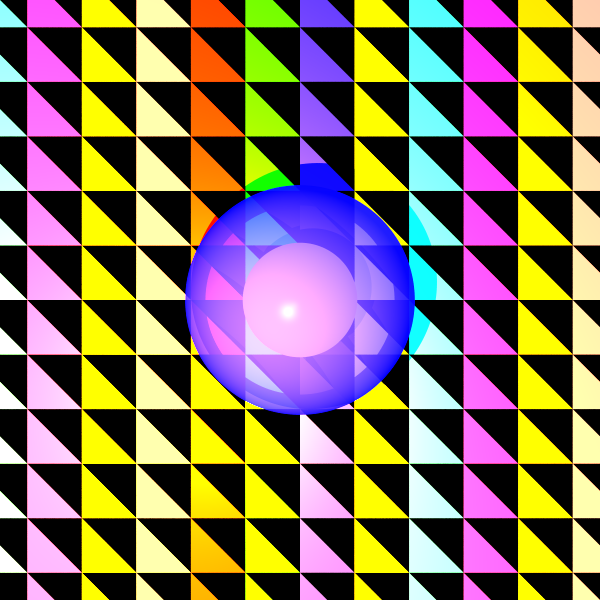
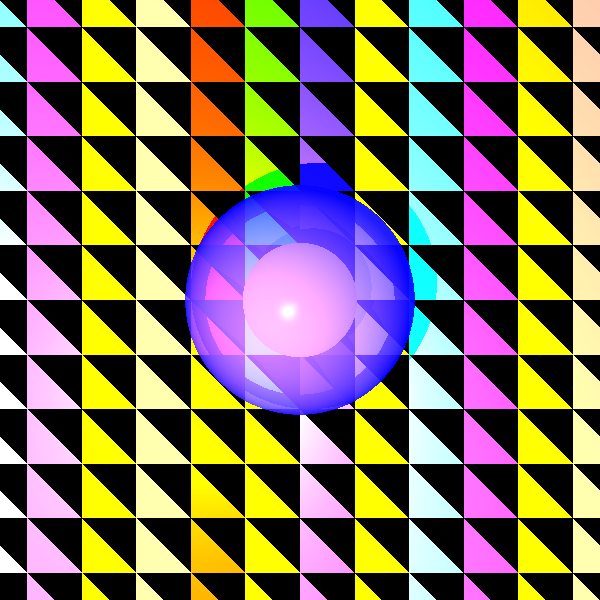
Improving the picture

diff --git a/unittests/renderer/ProjectImage.java b/unittests/renderer/ProjectImage.java
@@ -180,8 +180,8 @@ public class ProjectImage {
         // Create a checkered floor on YX plane (vertical)
         int squareSize = 50;
         Geometries checkerboard = new Geometries();
-        for (int i = -5; i <= 5; i++) {
-            for (int j = -5; j <= 5; j++) {
+        for (int i = -18; i <= 5; i++) {
+            for (int j = -18; j <= 5; j++) {
                 Color color = (i + j) % 2 == 0 ? new Color(20, 20, 20) : new Color(180, 180, 180);
                 checkerboard.add(new Polygon(
                         new Point(i * squareSize, j * squareSize, 0),
@@ -194,13 +194,15 @@ public class ProjectImage {
         }
 
         // Add some additional objects for interesting reflections
-        Geometry reflectiveSphere = new Sphere(30, new Point(0, 100, 30))
+        Geometry reflectiveSphere = new Sphere(30, new Point(100,0 , 30))
                 .setEmission(new Color(100, 20, 20))
                 .setMaterial(new Material().setKd(0.4).setKs(0.6).setShininess(100).setKR(0.3));
 
 
 
         scene.geometries.add(crystalSphere, checkerboard, reflectiveSphere);
+
+        scene.geometries.makeBVH();
 
         scene.setAmbientLight(new AmbientLight(new Color(150, 30, 50), 0.1));
 
@@ -213,12 +215,14 @@ public class ProjectImage {
 
         Camera.Builder camera = Camera.getBuilder()
                 .setRayTracer(new SimpleRayTracer(scene))
-                .setLocation(new Point(10, -1200, 30))
+                .setLocation(new Point(0, -1500, 90))
                 .setDirection(new Vector(0, 1, 0), new Vector(0, 0, 1))
                 .setMultithreading(9)
-                .setSamplesPerPixel(9)
-                .setVUpSize(200, 200).setVpDistance(1500);
-        camera.setImageWriter(new ImageWriter("first NaturalAxisCrystalScene", 800, 800))
+                .setSamplesPerPixel(1)
+                .setVUpSize(200, 150)  // Changed to 200x150 for a 4:3 aspect ratio
+                .setVpDistance(1000);
+
+        camera.setImageWriter(new ImageWriter("1500 NaturalAxisCrystalScene", 1600, 1200))  // Changed to 1600x1200 for a 4:3 aspect ratio
                 .build()
                 .renderImage()
                 .writeToImage();

diff --git a/unittests/renderer/ReflectionRefractionTests.java b/unittests/renderer/ReflectionRefractionTests.java
@@ -65,8 +65,8 @@ public class ReflectionRefractionTests {
 
         cameraBuilder.setLocation(new Point(0, 0, 10000)).setVpDistance(10000)
                 .setVUpSize(2500, 2500)
-                .setSamplesPerPixel(9)
-                .setMultithreading(4)
+                .setSamplesPerPixel(1)
+                .setMultithreading(9)
                 .setImageWriter(new ImageWriter("reflectionTwoSpheresMirrored with 9 j", 500, 500))
                 .build()
                 .renderImage()
@@ -97,7 +97,7 @@ public class ReflectionRefractionTests {
 
         cameraBuilder.setLocation(new Point(0, 0, 1000)).setVpDistance(1000)
                 .setVUpSize(200, 200)
-                .setSamplesPerPixel(9)
+                .setSamplesPerPixel(1)
                 .setMultithreading(4)
                 .setImageWriter(new ImageWriter("refractionShadow with 9 j", 600, 600))
                 .build()
@@ -122,8 +122,8 @@ public class ReflectionRefractionTests {
 
         cameraBuilder.setLocation(new Point(0, 0, 1000)).setVpDistance(1000)
                 .setVUpSize(150, 150)
-                .setSamplesPerPixel(9)
-                .setMultithreading(4)
+                .setSamplesPerPixel(1)
+                .setMultithreading(9)
                 .setImageWriter(new ImageWriter("refractionTwoSpheres with 9 j", 500, 500))
                 .build()
                 .renderImage()
@@ -329,7 +329,7 @@ public class ReflectionRefractionTests {
         );
 
         cameraBuilder.setVpDistance(1000).setVUpSize(500, 500)
-                .setSamplesPerPixel(9) // Enable 4x super-sampling
+                .setSamplesPerPixel(1) // Enable 4x super-sampling
                 .setLocation(new Point(0, 0, 1000))
                 .setDirection(new Vector(0, 0, -1), new Vector(0, 1, 0))
                 .setMultithreading(9)

diff --git a/src/renderer/Camera.java b/src/renderer/Camera.java
@@ -167,15 +167,19 @@ public class Camera implements Cloneable {
      * @param i  row index of the pixel (from top to bottom)
      * @throws MissingResourceException if the RayTracer is missing
      */
-    public void castRay(int nX, int nY, int j, int i) {
+    public void castRay(int nX, int nY, int j, int i)
+    {
         if (rayTracer == null) {
             throw new MissingResourceException("RayTracer", "RayTracer", "RayTracer is missing");
         }
         Color pixelColor;
         if (samplesPerPixel <= 1) {
-            Ray ray = constructRay(nX, nY, j, i);
+            double epsilon = 1e-5; // Small offset
+            Ray ray = constructRay(nX, nY, j + epsilon, i + epsilon);
             pixelColor = rayTracer.traceRay(ray);
-        } else {
+        }
+        else
+        {
             pixelColor = new Color(0, 0, 0);
             double subPixelSize = 1.0 / samplesPerPixel;
             for (int k = 0; k < samplesPerPixel; k++) {
